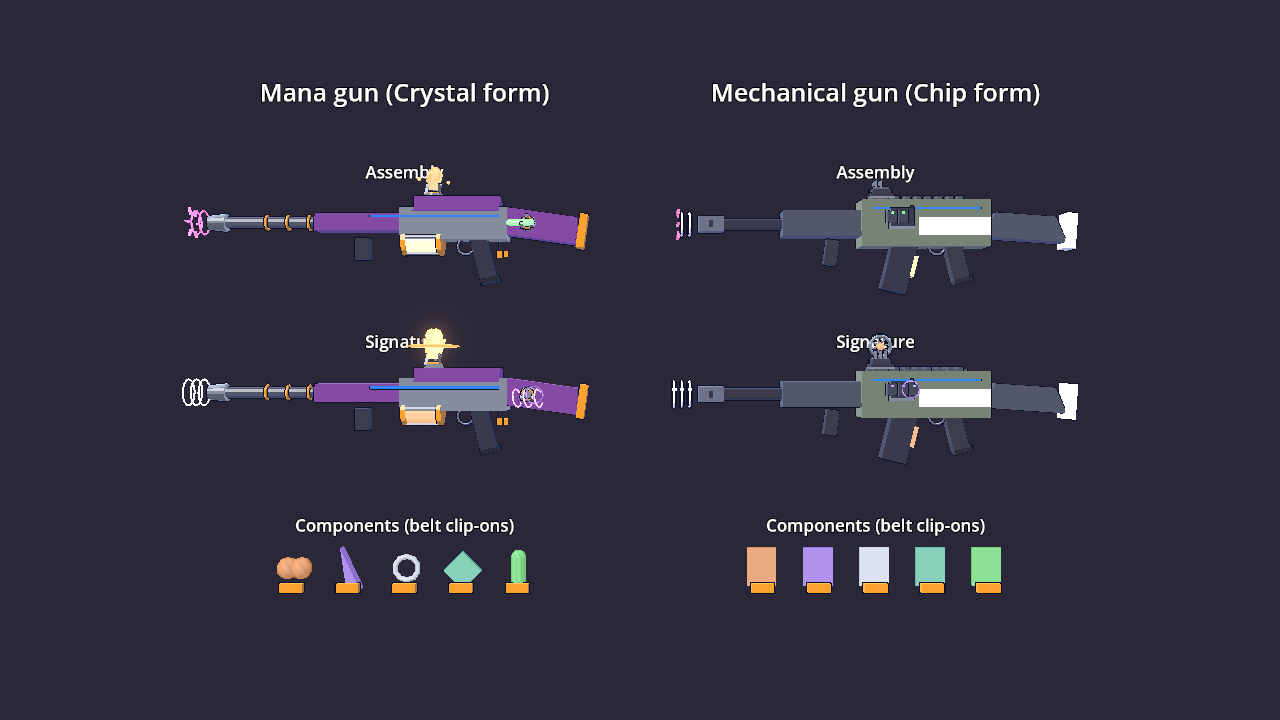
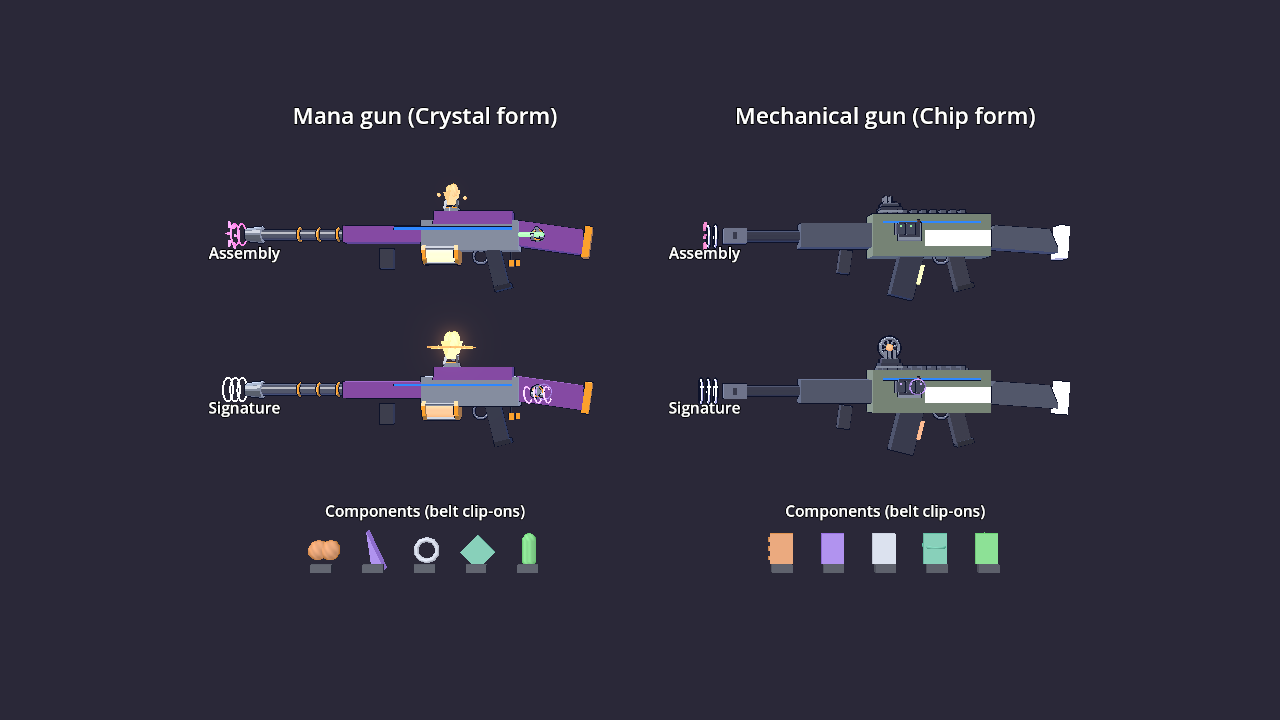
fix(armory-v2-visuals): readable plate and veil gear, preview layout from lead review
Steel hardware material for body gear (no brass block), domed pauldron with
lames per tier, larger Null Veil spine fins, gear base scale 1.25, chip-form
components carry a glyph module per line, gun labels beside the guns,
tracer stage on a dark wall with legible staggered labels. Evidence
re-captured and checked.

Story: Armory v2 C6 (items-and-armory.md §3.8)

Claude-Session: https://claude.ai/code/session_01EBZx3Dxb731aDMrCTE9Ggu

diff --git a/tools/art/gen_armory_visuals.py b/tools/art/gen_armory_visuals.py
@@ -31,7 +31,7 @@ DATA = {
     "tier_glow": [0.6, 1.0, 1.6],
     "spare_dim": 0.15,
     # Body gear base scale: silhouette first, readable at 20 m (§3.8 rule 6).
-    "gear_base_scale": 1.5,
+    "gear_base_scale": 1.25,
     "item_cuts": {
         "ember_part": "ember_heart", "ember_facet": "ember_heart", "ember_heart": "ember_heart",
         "tempo_part": "tempest", "pulse_facet": "tempest", "tempest_heart": "tempest",
